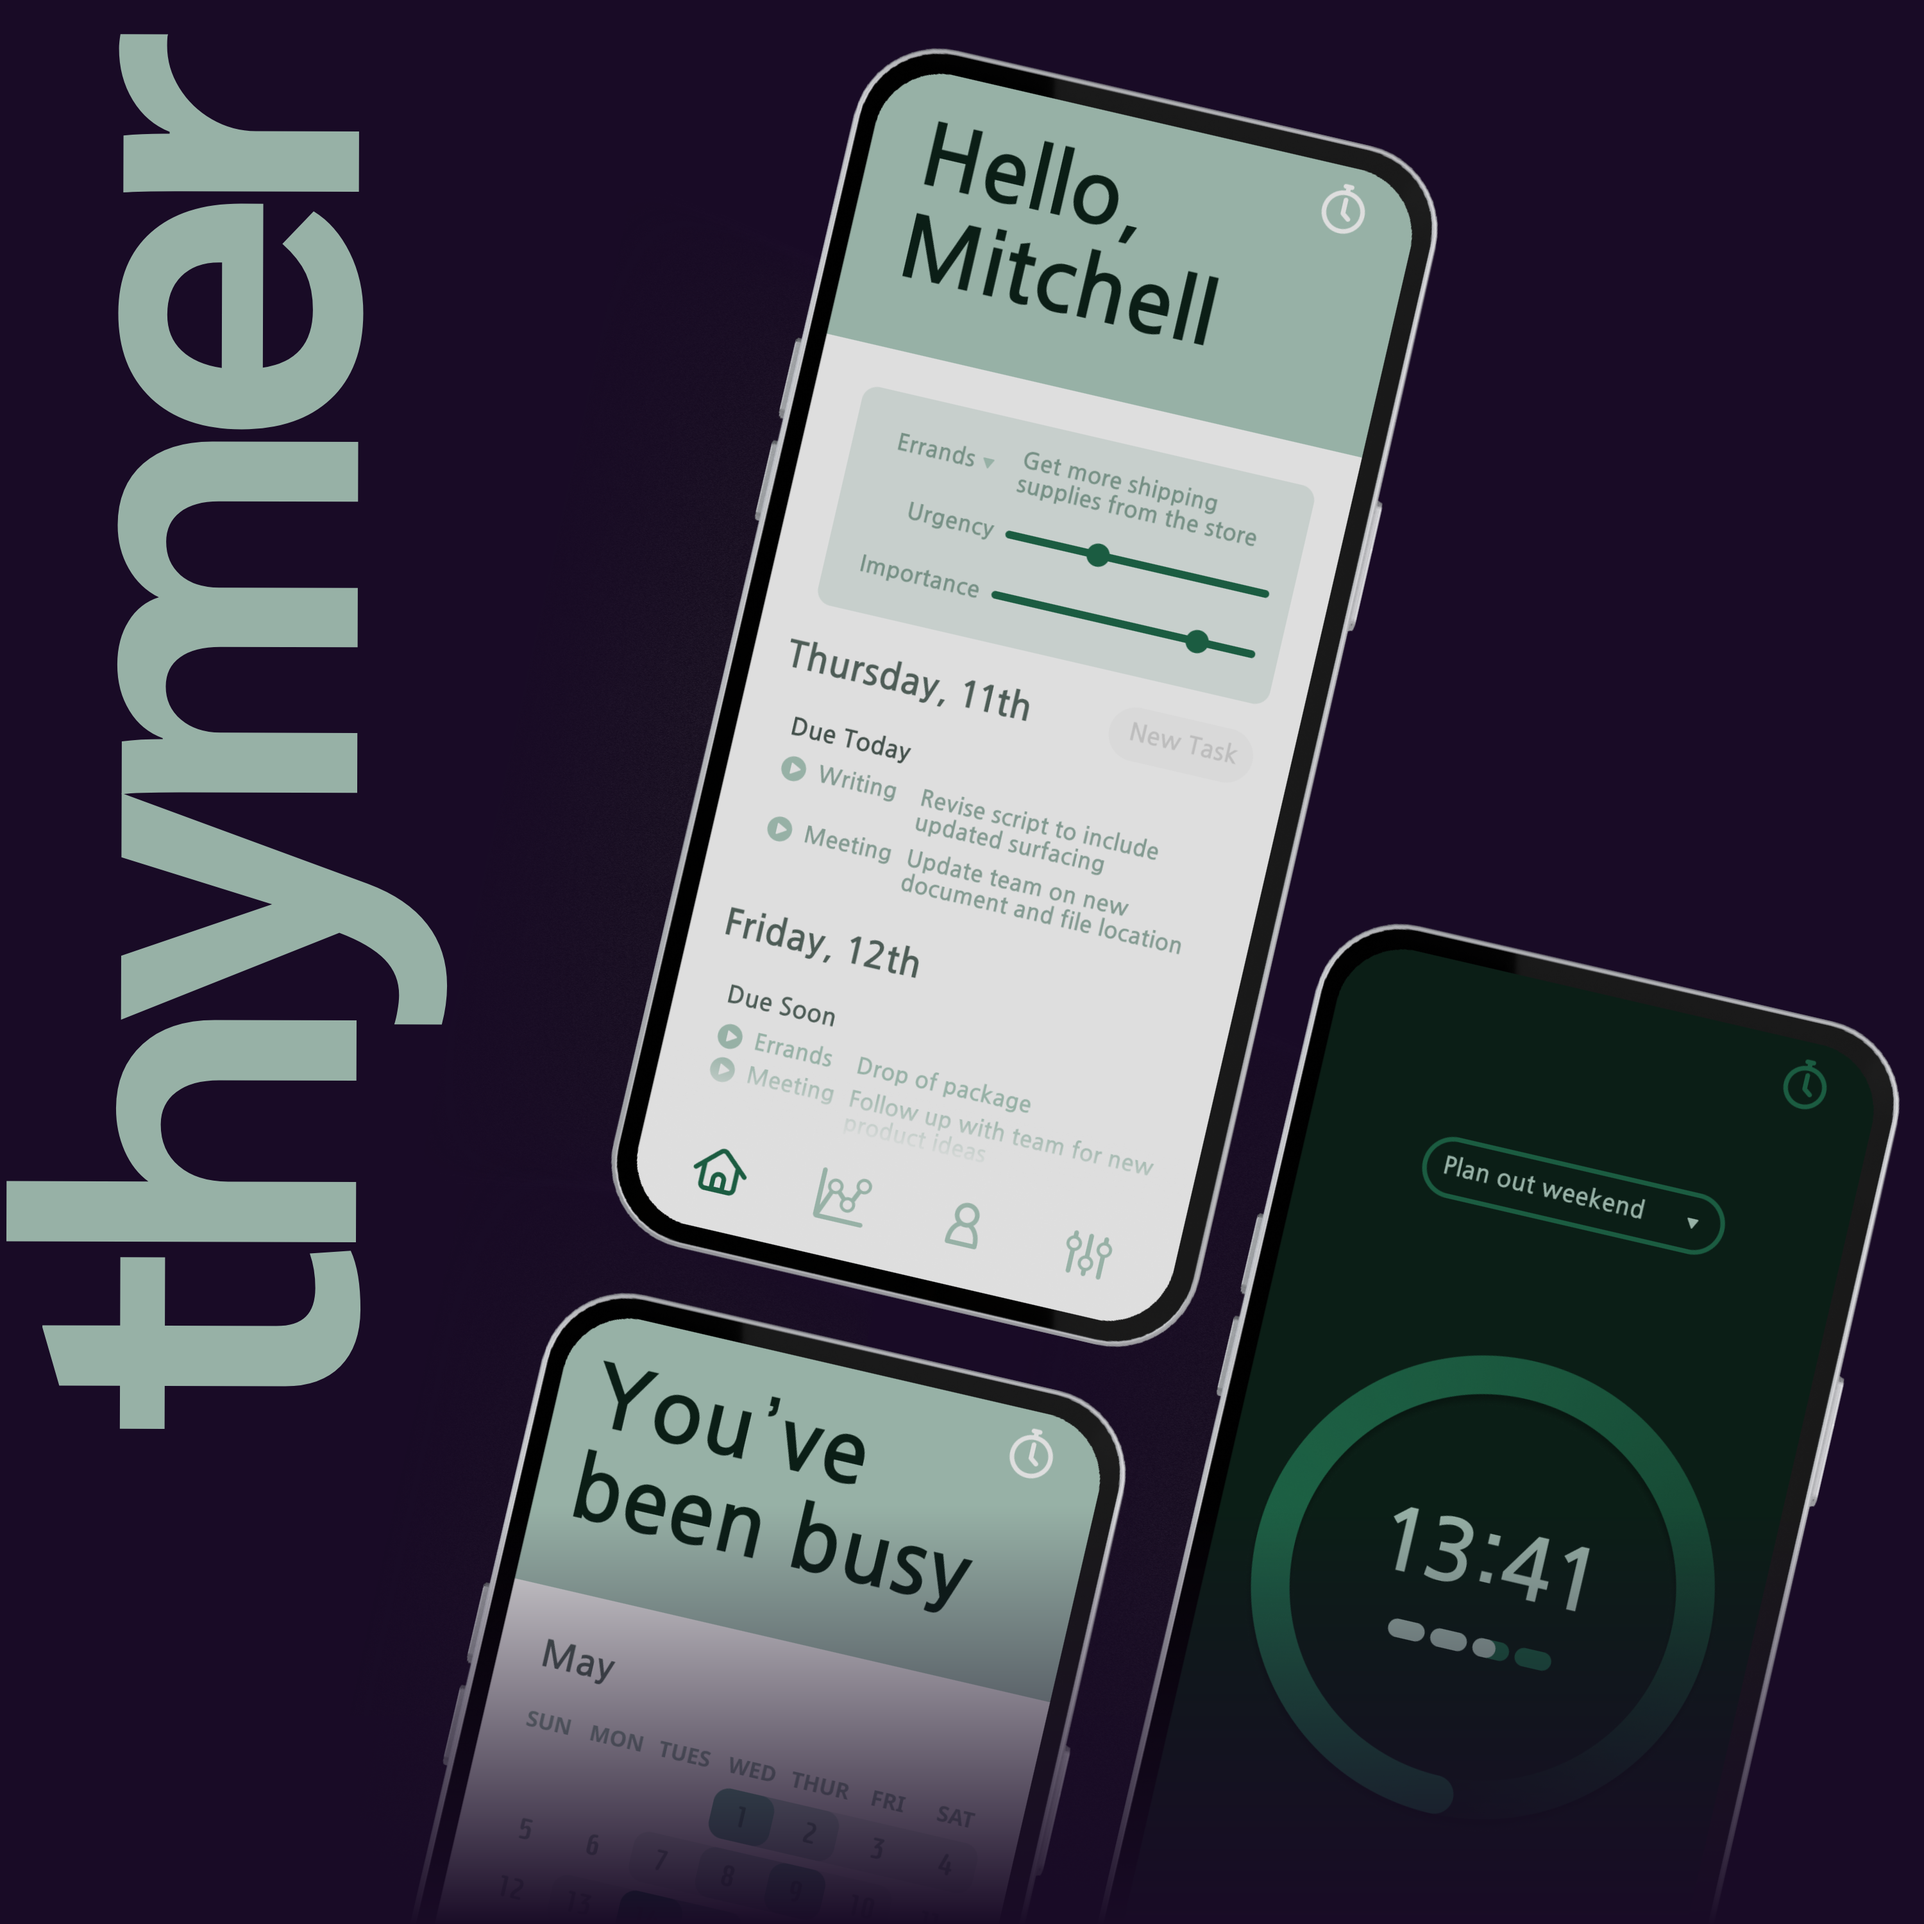
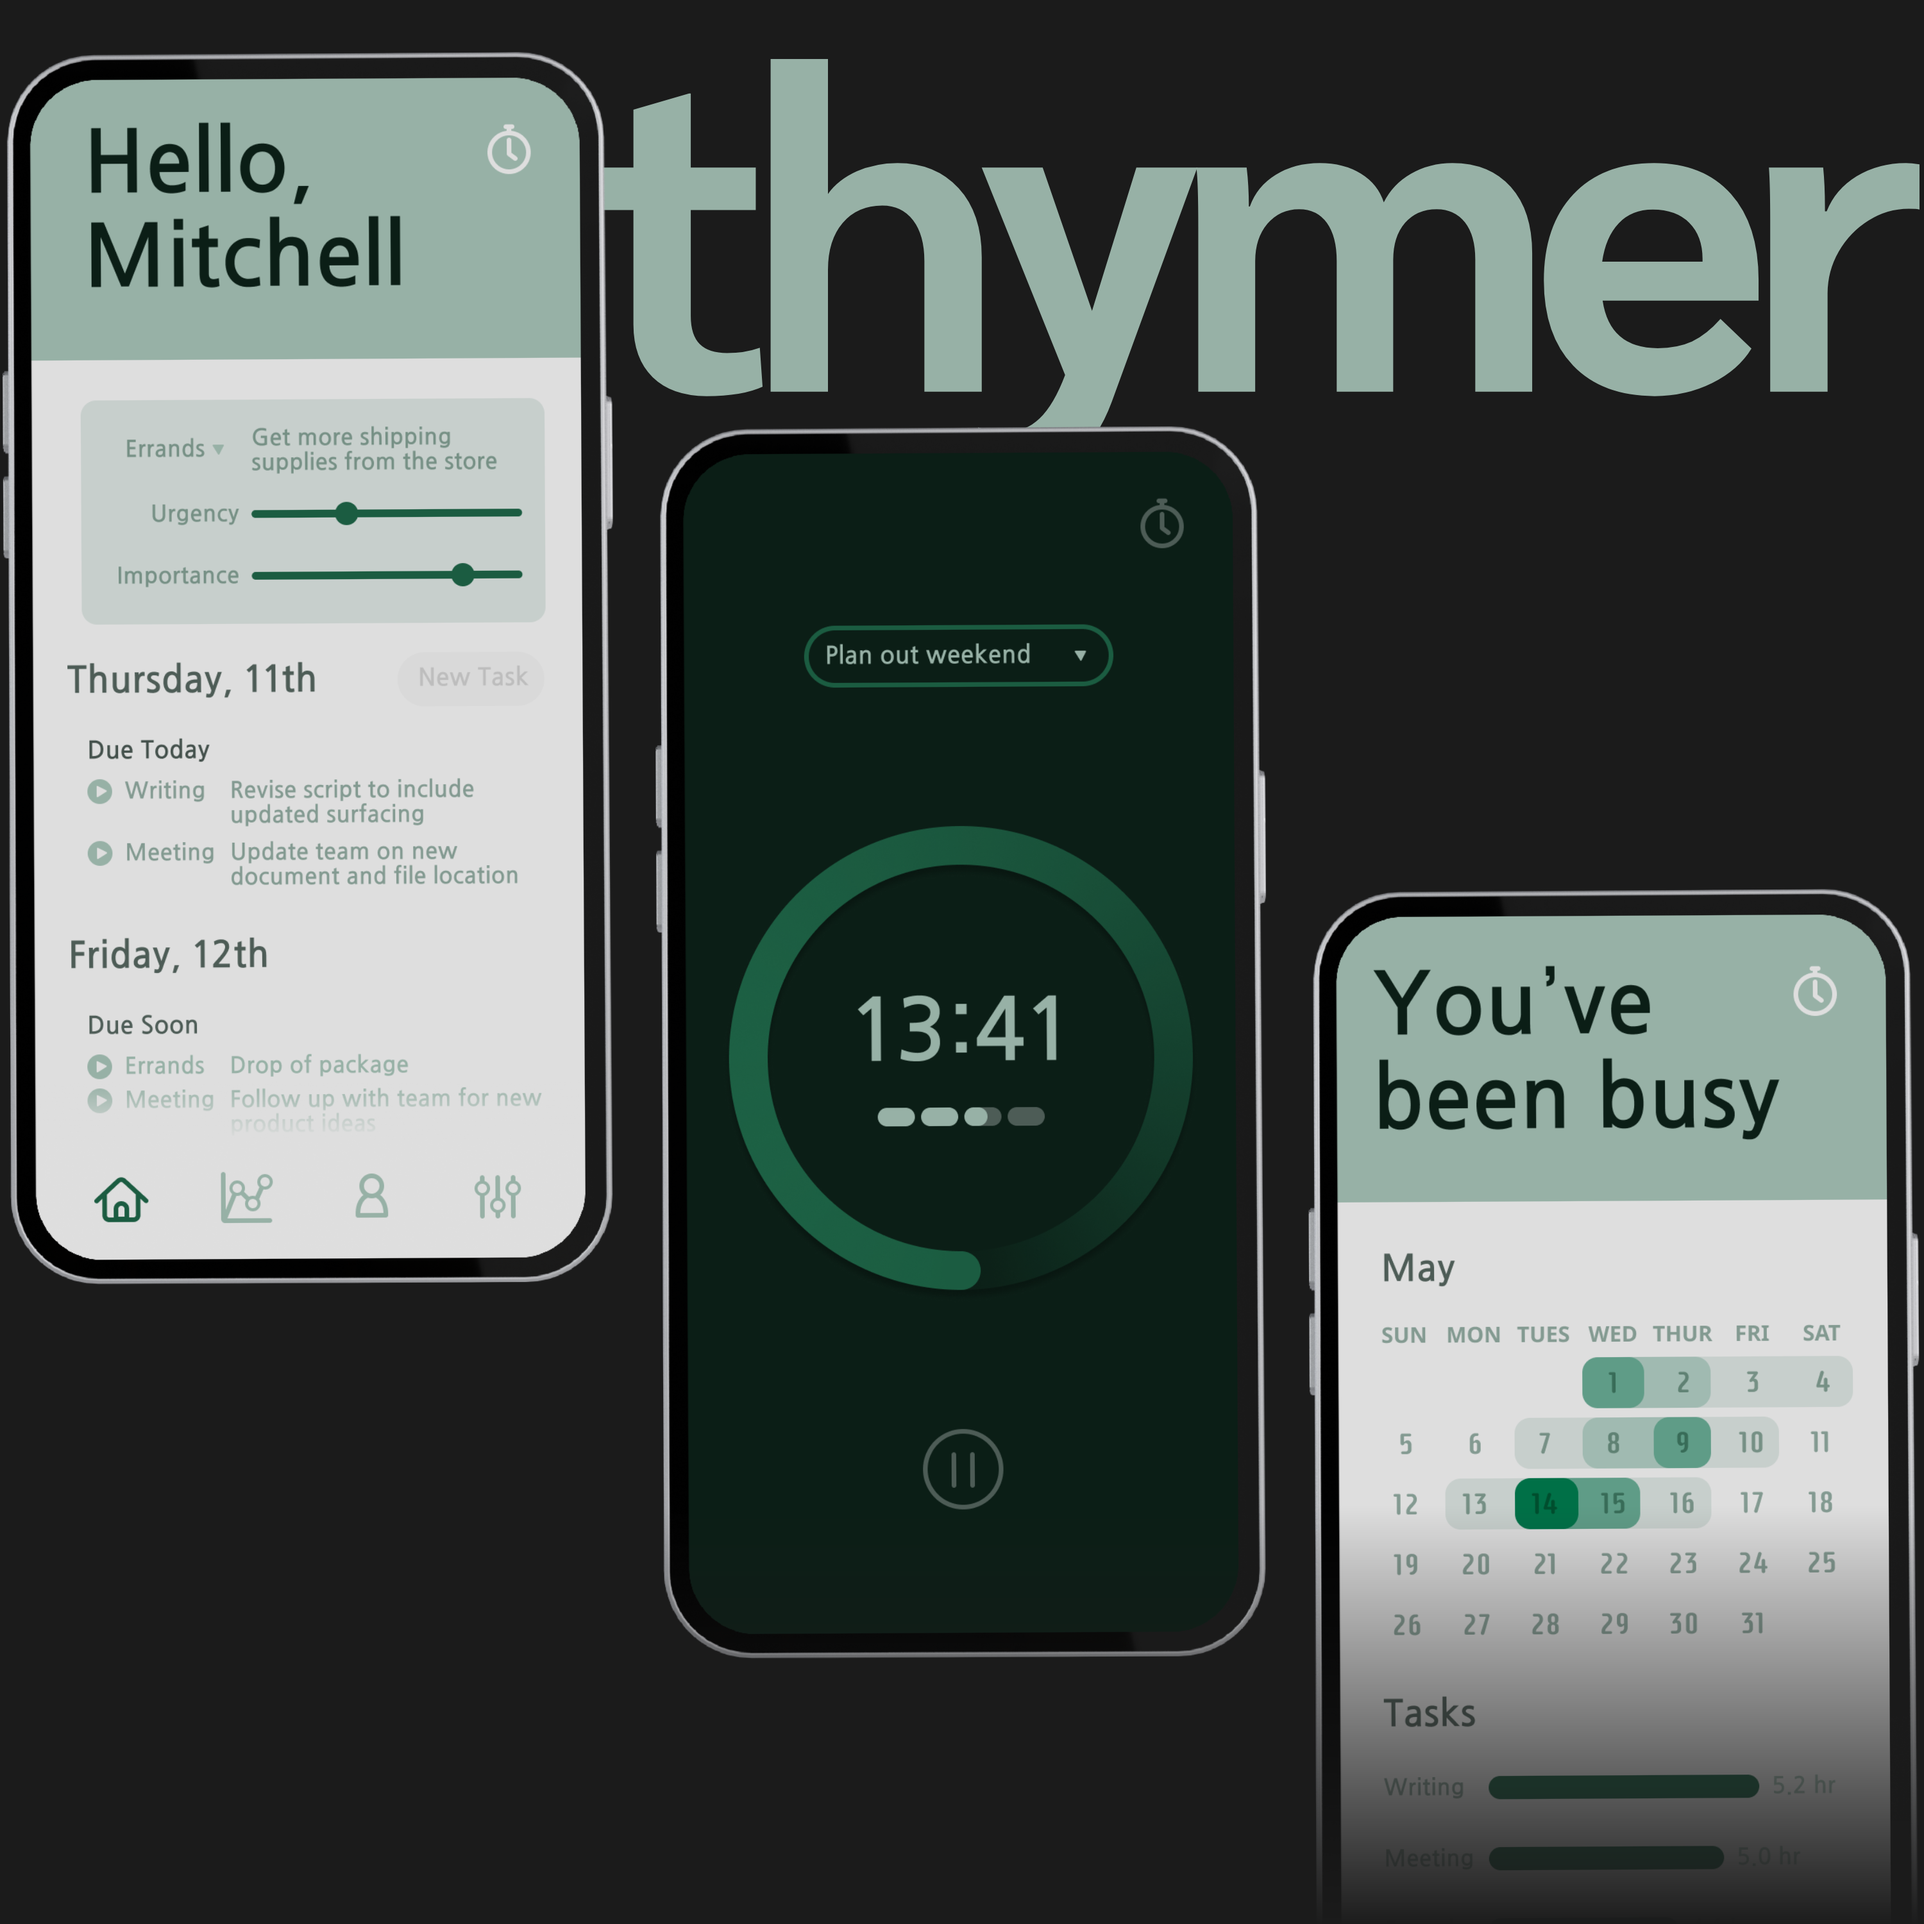
Updated color to grayscale, update project images background, added link in projects

diff --git a/src/components/Projects.jsx b/src/components/Projects.jsx
@@ -3,6 +3,7 @@ import { useState } from 'react'
 import project1 from '../wg-1.png';
 import project2 from '../wg-2.png';
 import project3 from '../th-2.png';
+import link from '../icon-link-1.svg';
 
 const Projects = () => {
   
@@ -15,7 +16,11 @@ const Projects = () => {
             <img className="tileImg" src={project2} />
             <div className="tileContent">
               <h4>Writer Gadget</h4>
-              <p>I am currently reworking the front end of an app called Writers Gadget. I am utilizing <span className="highlight">Figma</span> and familiarizing myself with <span className="highlight">Flutter</span> to implement an intuitive and user-friendly interface. </p>
+              <p>I am reworking the front end of Writers Gadget, a responsive application to plan, organize, and track story ideas. I am utilizing <span className="highlight">Figma</span> and familiarizing myself with <span className="highlight">Flutter</span> to implement an intuitive and user-friendly interface. </p>
+              <a className="link" href="https://play.google.com/store/apps/details?id=com.writergadget.writer_gadget&hl=en_US" target="_blank" rel="noopener noreferrer">
+                <img  src={link} />
+                <h5 className='highlight'>Google Play</h5>
+              </a>
               {/* <h5>Collaborating with the developers of Writer Gadget, a cross-platform writing application,
                 in implementing an intuitive and user-friendly interface. </h5> */}
               {/* <div className="projectSkill">
@@ -23,18 +28,21 @@ const Projects = () => {
                 <button className="skill">Flutter</button>
               </div> */}
             </div>
+            
           </div>
+          
           <div className="tile">
             <img className="tileImg" src={project3} />
             <div className="tileContent">
-              <h4>Productivity Application</h4>
+              <h4>Thymer</h4>
+              <p>I am developing a time management application, Thymer. This responsive application will combine a to-do list, habit tracker, and Pomodoro timer. This app is actively being designed with <span className="highlight">Figma</span> and is projected to be built with <span className="highlight">React</span> and <span className="highlight">Node.js</span>. </p>
               {/* <h5>Developing a productivity application aimed to help users manage their tasks, set goals, and 
                 track progress efficiently. </h5> */}
-              <div className="projectSkill">
+              {/* <div className="projectSkill">
                 <button className="skill">Figma</button>
                 <button className="skill">React</button>
                 <button className="skill">GSAP</button>
-              </div>
+              </div> */}
             </div>
           </div>
         </div>

diff --git a/src/index.css b/src/index.css
@@ -2,16 +2,19 @@
 :root {
   /* CSS Color Palette Variables */
   color-scheme: light dark;
-  --background-color: #190B26;
-  /* --background-color: antiquewhite; */
-  
-  --accent-color: #ecb37d;
+  /* --accent-color: #ecb37d;
   --accent-color: #eddbff;
   --header-color: #D3B7ED;
   --text-color: #9A87AE;
   --shader-color: rgb(101, 82, 117);
+  --background-color: #190B26; */
+  /* --background-color: antiquewhite; */
 
-  
+  --background-color: #1b1b1b;
+  --accent-color: #f0f0f0;
+  --header-color: #e6e6e6;
+  --text-color: #a8a8a8;
+  --shader-color: rgb(107, 107, 107);
   background-color: var(--background-color);
 
   font-synthesis: none;
@@ -59,6 +62,10 @@ h4 {
   margin: 0px;
 }
 
+h5 {
+  font-size: calc(1vw + 12px);
+  color: var(--text-color);
+}
 
 .highlight {
   color: var(--accent-color);
@@ -119,7 +126,8 @@ p {
   }
 
   .logo{
-    width: 175px;
+    height: 30px;
+    margin-left: 12px;
   }
 
   .navBtn {
@@ -162,6 +170,7 @@ p {
   .section-content {
     /* background-color: antiquewhite; */
     padding: 24px;
+    margin-top: 45px;
   }
 
 #home {
@@ -185,14 +194,14 @@ p {
     z-index: -1;
   }
 
-  .heroFooter{
+  /* .heroFooter{
     z-index: -1;
     background: linear-gradient(to top, #190B26 15% , #190b2600 100%);
     width: 100vw;
     bottom: -10vh;
     height: 400px;
     position: absolute;
-  }
+  } */
 
   #home h2 {
     color: var(--shader-color);
@@ -240,8 +249,16 @@ p {
       flex-direction: column;
       gap: 24px;
       -ms-grid-row-span: -1/1;
-      z-index: -1;
     }
+
+      .link {
+        display: inline-flex;
+        height: 30px;
+        align-items: center;
+        gap: 6px;
+        text-decoration: none;
+        cursor: pointer;
+      }
 
       .tileImg {
         width: 100%;

diff --git a/src/components/Navigation.jsx b/src/components/Navigation.jsx
@@ -1,6 +1,7 @@
 import { useState } from 'react'
 import menu1 from '../button-menu-2.svg';
-import logo from '../icon-logo.svg';
+import logo1 from '../icon-logo-1.svg';
+import logo2 from '../icon-logo-2.svg';
 import close1 from '../button-close-1.svg';
 import { gsap } from "gsap";
 import { ScrollTrigger } from "gsap/ScrollTrigger";
@@ -34,7 +35,7 @@ const Navigation = () => {
         <>
         <section className="navigation">
           {/* 🔗 conditional class, if navExpand is true then nav-links expand otherwise nav-links is closed */}
-          <img className='logo' src={logo} />
+          <img className='logo' src={logo2} />
           <div className={`navLinks ${navExpand ? 'expand' : ''}`}>
                 <a href="#home" onClick={closeNav}>Home</a>
                 <a href="#about" onClick={closeNav}>About</a>

diff --git a/src/components/About.jsx b/src/components/About.jsx
@@ -22,7 +22,8 @@ const About = () => {
                 <div className='socialIcon'></div>
                 <div className='socialIcon'></div>
             </div> */}
-            <button className="linkSection">Contact Me</button>
+            <a href="#contact"><button className="linkSection">Contact Me</button></a>
+            
         </div>
       </div>
     </section>
